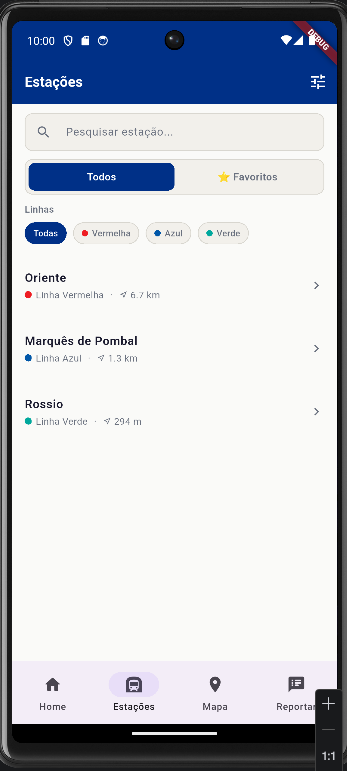
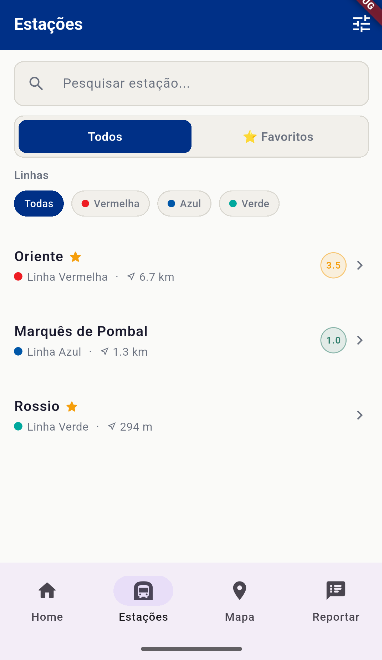
updated README.md

diff --git a/README.md b/README.md
@@ -11,30 +11,84 @@ a22207476;Guilherme Ribeiro
 
 * Dashboard
   * *Ecrã dashboard com informações pertinentes, estação mais proxima, status das linhas, favoritos e o mapa das linhas.
-  * ![Dashboard print](images/dashboard.png) 
+  * ![Dashboard 1](images/dashboard1.png) ![Dashboard 2](images/dashboard2.png)
 * Lista
   * Lista de estações de metro, com barra de pesquisa, toggle de favoritos e filtros adicionais.
-  * ![lista.png](images/lista.png)![filtro.png](images/filtro.png)
+  * ![Listagem estações](images/lista.png)![filtro.png](images/filtro.png)
 * Detalhes de Estação
   * Numero e lista de incidentes reportados e a severidade.
-  * ![detalhes.png](images/detalhes.png)
+  * ![Detalhes estação](images/detalhes.png)
 * Mapa
   * Mapa da localização do utilizador com os metros proximos apresentados.
-  * ![mapa.png](images/mapa.png)
+  * ![Mapa.png](images/mapa.png)
 * Formulário de Incidente
   * Formulário para preencher um novo incidente, escolher estação, tipo de problema, gravidade, data / hora e notas sobre o incidente.
-  * ![formulario.png](images/formulario.png)
+  * ![Formulário.png](images/formulario.png)
 
-## Funcionalidades
-* Implementamos funcionalidades pedidas, sendo elas:
-  * Dashboard com informações extras, como estação mais proxima status de linhas etc...
-  * Ecrã de lista com pesquisa funcional e filtros.
-  * Mapa implementado (imagem).
-  * Da lista é possível ir até aos detalhes de cada estação com uma lista de incidentes reportados.
-  * Formulario implementado com escolha para reportar incidentes.
+## Funcionalidades implementadas
 
-![tabela de implementacao.png](images/tabela%20de%20implementacao.png)
+### Testes automáticos dos alunos
+- Testes aos componentes criativos criados para na dashboard e sua navegação
+- Filtragem e pesquisa da listagem de estações
+
+### Dashboard
+**Estado das linhas**
+- Grelha com o estado de cada linha (normal / perturbada)
+- Ao tocar na linha navega para a lista filtrada por essa linha
+
+**Estação mais próxima**
+- Nome e distância da estação mais próxima
+- Próximos metros por plataforma com minutos de espera
+- Toque navega para o ecrã de detalhe da estação
+
+**Favoritos**
+- Lista de estações marcadas como favoritas
+- Toque navega para o ecrã de detalhe da estação
+
+**Mapa das linhas**
+- Toque abre a imagem em ecrã completo com zoom interativo
+
+### Apresentação das estações — Lista
+- Nome da estação com ícone de favorito
+- Linha com cor identificativa, distância ao utilizador e severidade média
+- Botão de voltar quando acedido pelos favoritos na dashboard
+
+### Apresentação das estações — Lista com pesquisa
+- Barra de pesquisa
+- Alternar entre todas as estações e apenas favoritas
+- Butões de filtragem por linha
+- Filtros avançados:
+    - Ordenação por distância, nome ou severidade
+    - Raio de distância (500m, 1km, 2km, 5km)
+    - Apenas estações sem incidentes
+    - Severidade mínima ou máxima com slider
+    - Exclusão por tipo de incidente
+- Estado vazio com opção de limpar filtros
+
+### Apresentação das estações — Mapa
+- Imagem do google maps implementada
+
+### Detalhe da estação
+- Nome da estação e linha na AppBar com cor identificativa
+- Número de incidentes reportados e Severidade média com cor conforme nível de risco
+- Tempos de espera para os próximos metros por plataforma
+
+### Detalhe da estação — apresentar incidentes
+- Lista de incidentes ordenada do mais recente para o mais antigo
+- Cada incidente mostra descrição, data/hora, tipo e severidade individual
+- Estado vazio quando não existem incidentes
+- Botão `+ Reportar` junto ao título navega para o formulário com a estação pré-selecionada
+
+### Registo de incidentes
+- Seleção de estação (pré-selecionada quando acedido pelo ecrã de detalhes)
+- Seleção do tipo de problema
+- Date/time picker
+- Gravidade de 1 a 5 com botões
+- Notas opcionais
+- Validação de todos os campos obrigatórios antes da submissão
+- Feedback de erro por campo e feedback de sucesso após submissão
+- Botão de voltar quando acedido pelo ecrã de detalhe
 
 ## Previsão de Nota
 
-* Após muita consideração, chegamos a conclusão de 17,64 valores.
+* Após muita consideração, chegamos a conclusão de 18,27 valores.